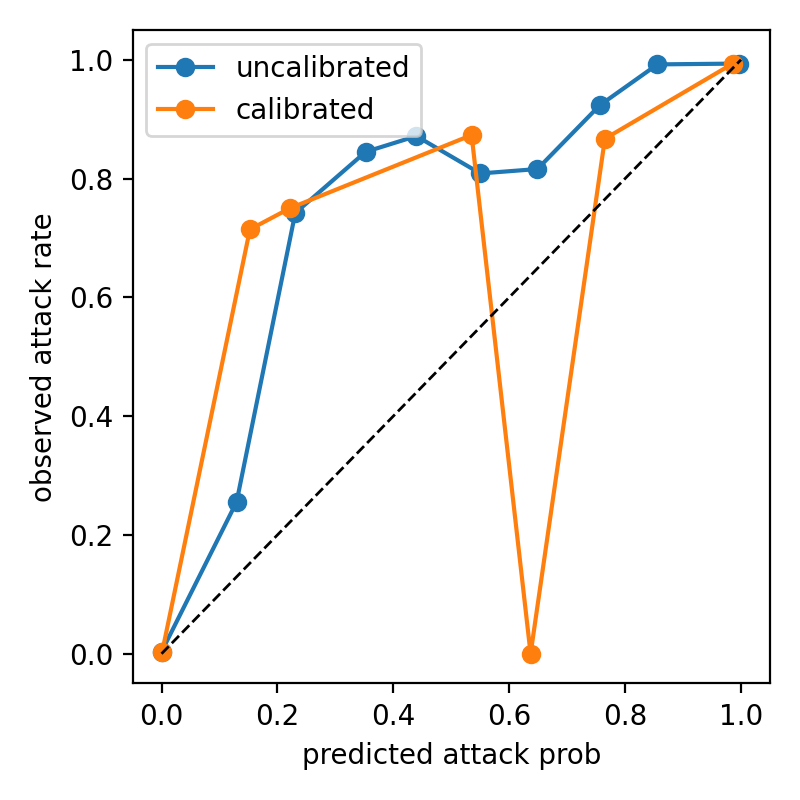
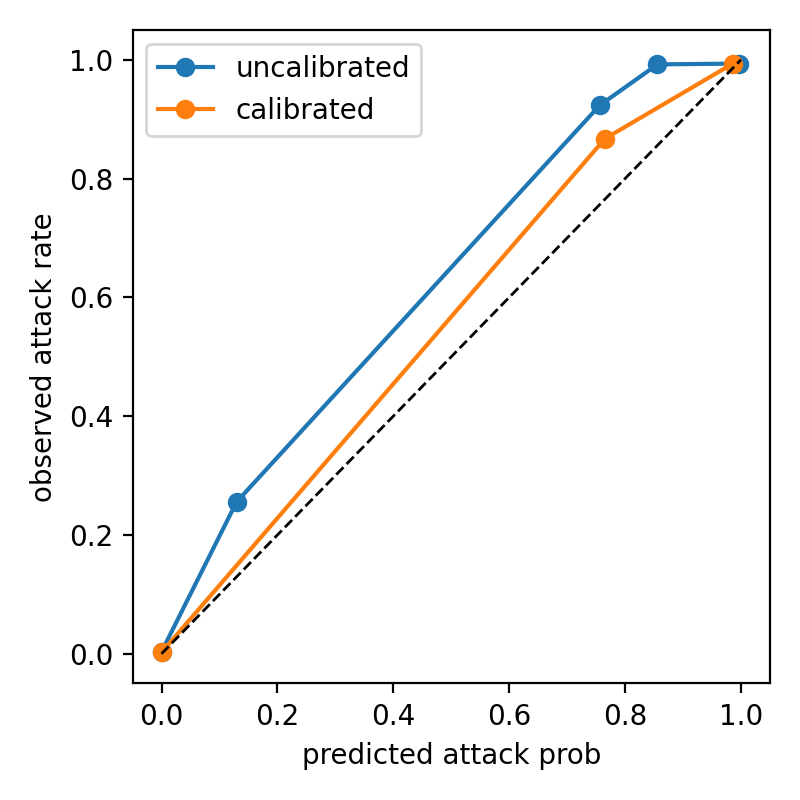
confirmed bin was sparse

diff --git a/runMilestone.py b/runMilestone.py
@@ -211,11 +211,14 @@ perClass.to_csv(os.path.join(args.outDir, 'perClass.csv'))
 #reliability plot for attack probability
 y = (tierTest >= 1).astype(int)
 fig, ax = plt.subplots(figsize=(4, 4))
+minCount = 200
 for name, p in [('uncalibrated', store['rawTest']), ('calibrated', store['pTest'])]:
     bins = np.linspace(0, 1, 11)
     idx = np.clip(np.digitize(p, bins) - 1, 0, 9)
-    xs = [p[idx == b].mean() for b in range(10) if (idx == b).sum() > 0]
-    ys = [y[idx == b].mean() for b in range(10) if (idx == b).sum() > 0]
+    print(name, 'flows per bin:', [int((idx == b).sum()) for b in range(10)])
+    keep = [b for b in range(10) if (idx == b).sum() >= minCount]
+    xs = [p[idx == b].mean() for b in keep]
+    ys = [y[idx == b].mean() for b in keep]
     ax.plot(xs, ys, marker='o', label=name)
 ax.plot([0, 1], [0, 1], 'k--', lw=1)
 ax.set_xlabel('predicted attack prob'); ax.set_ylabel('observed attack rate'); ax.legend()
